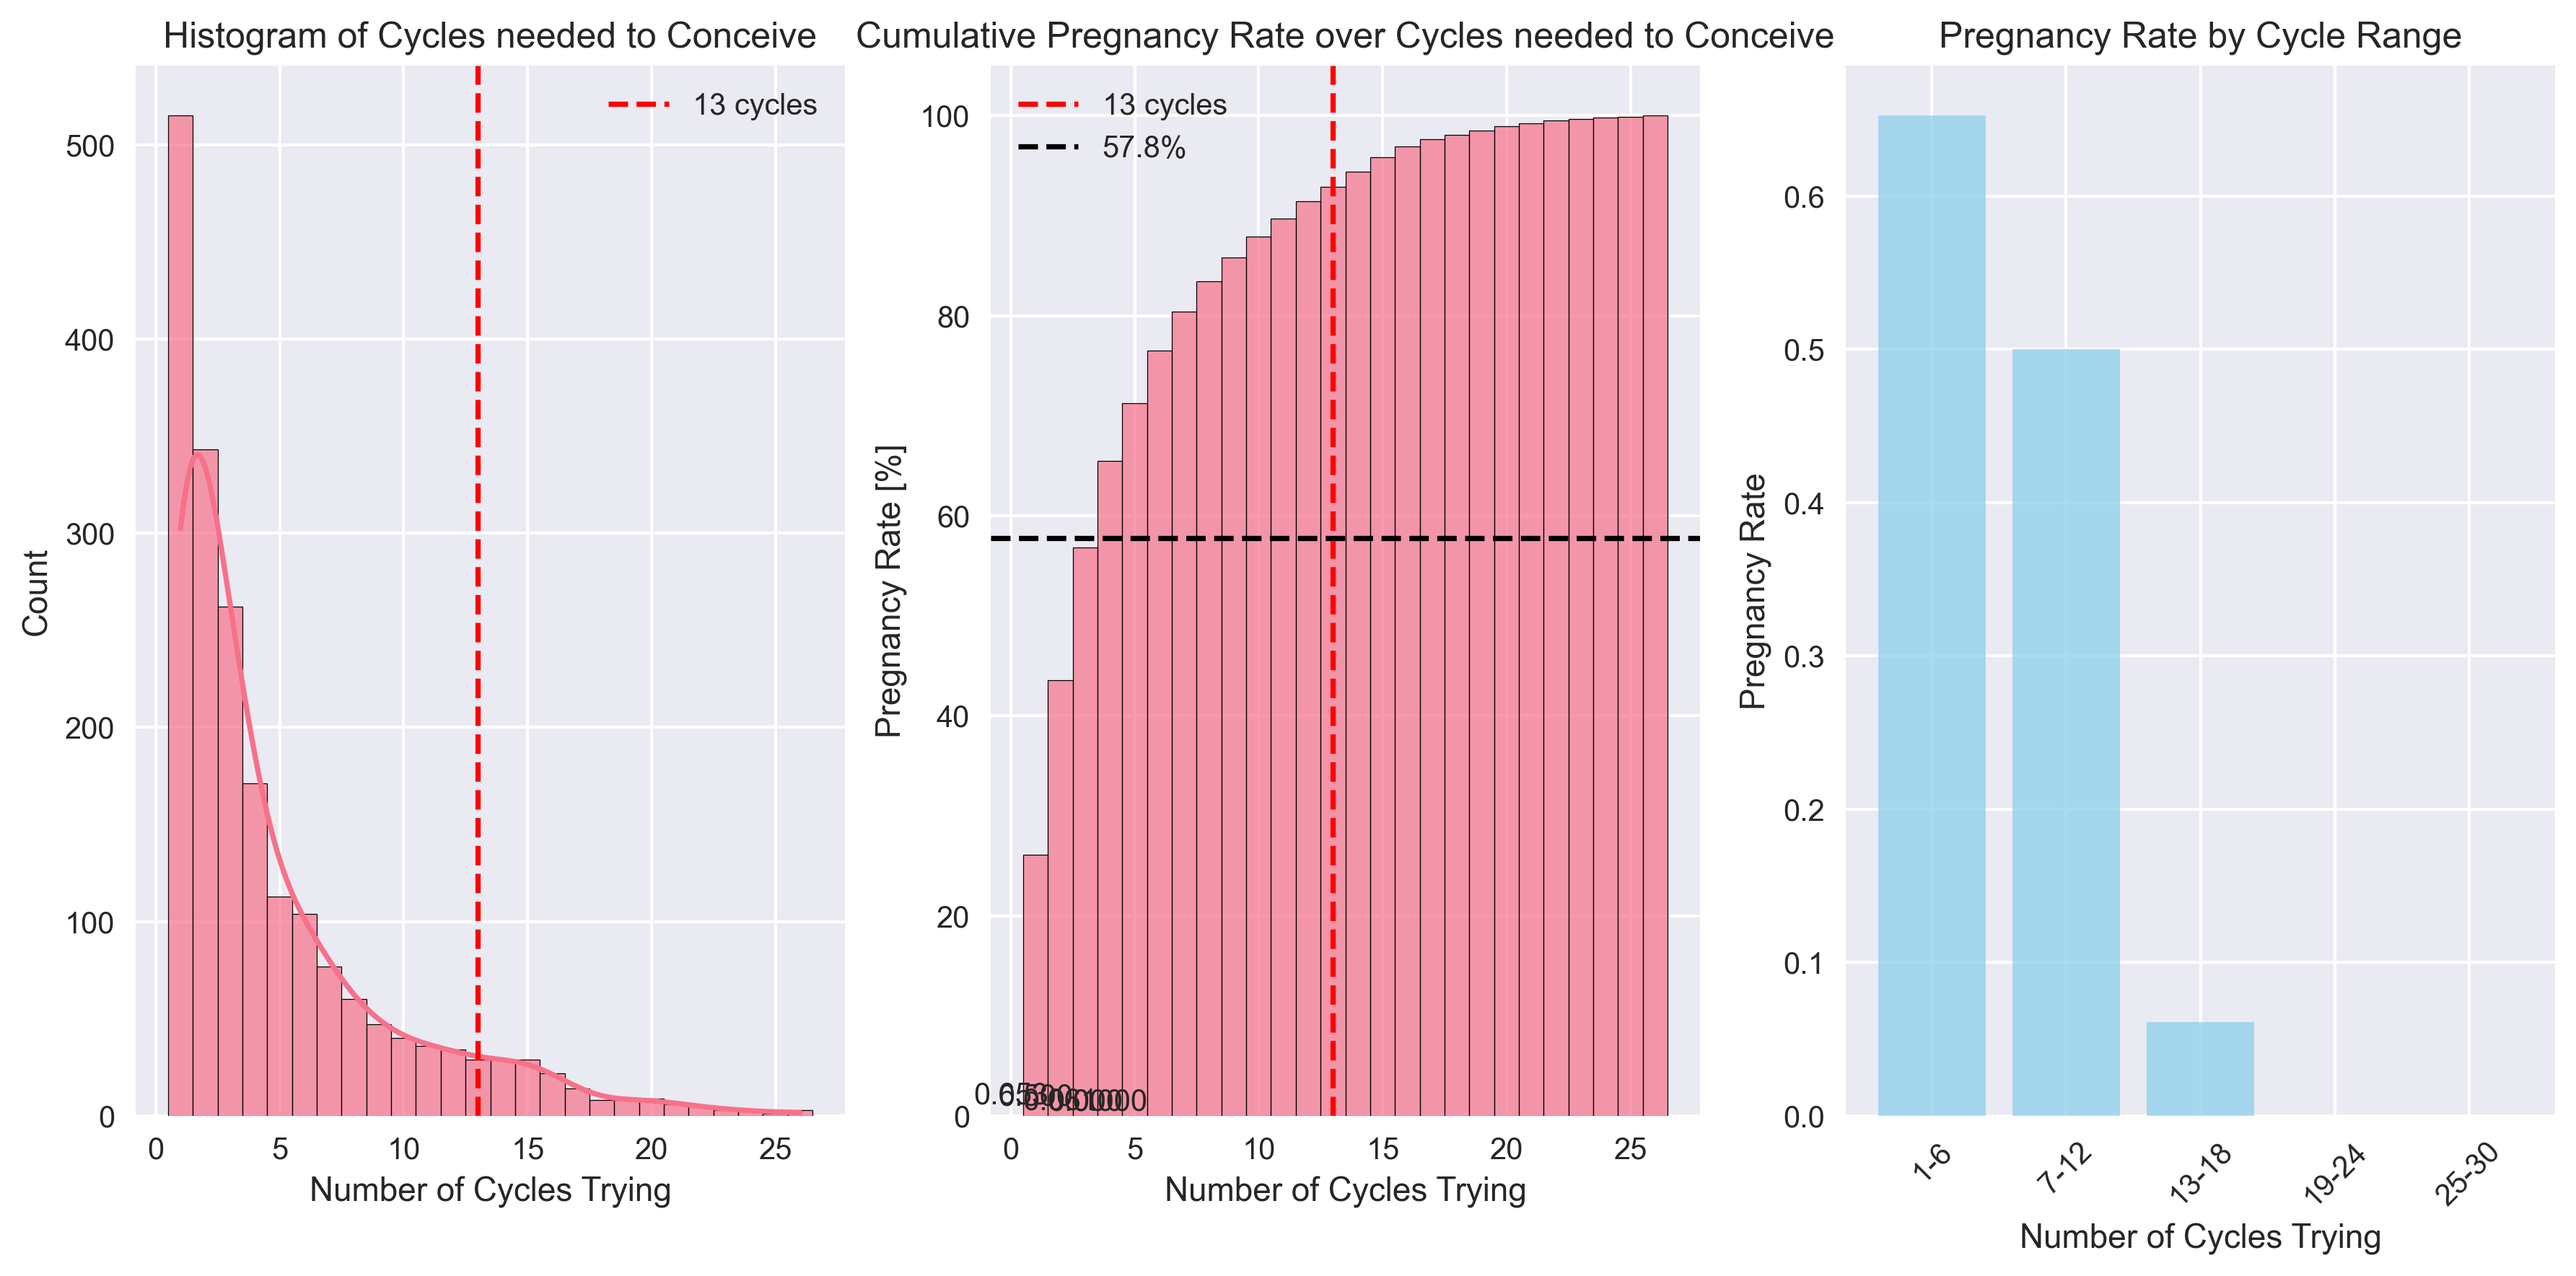
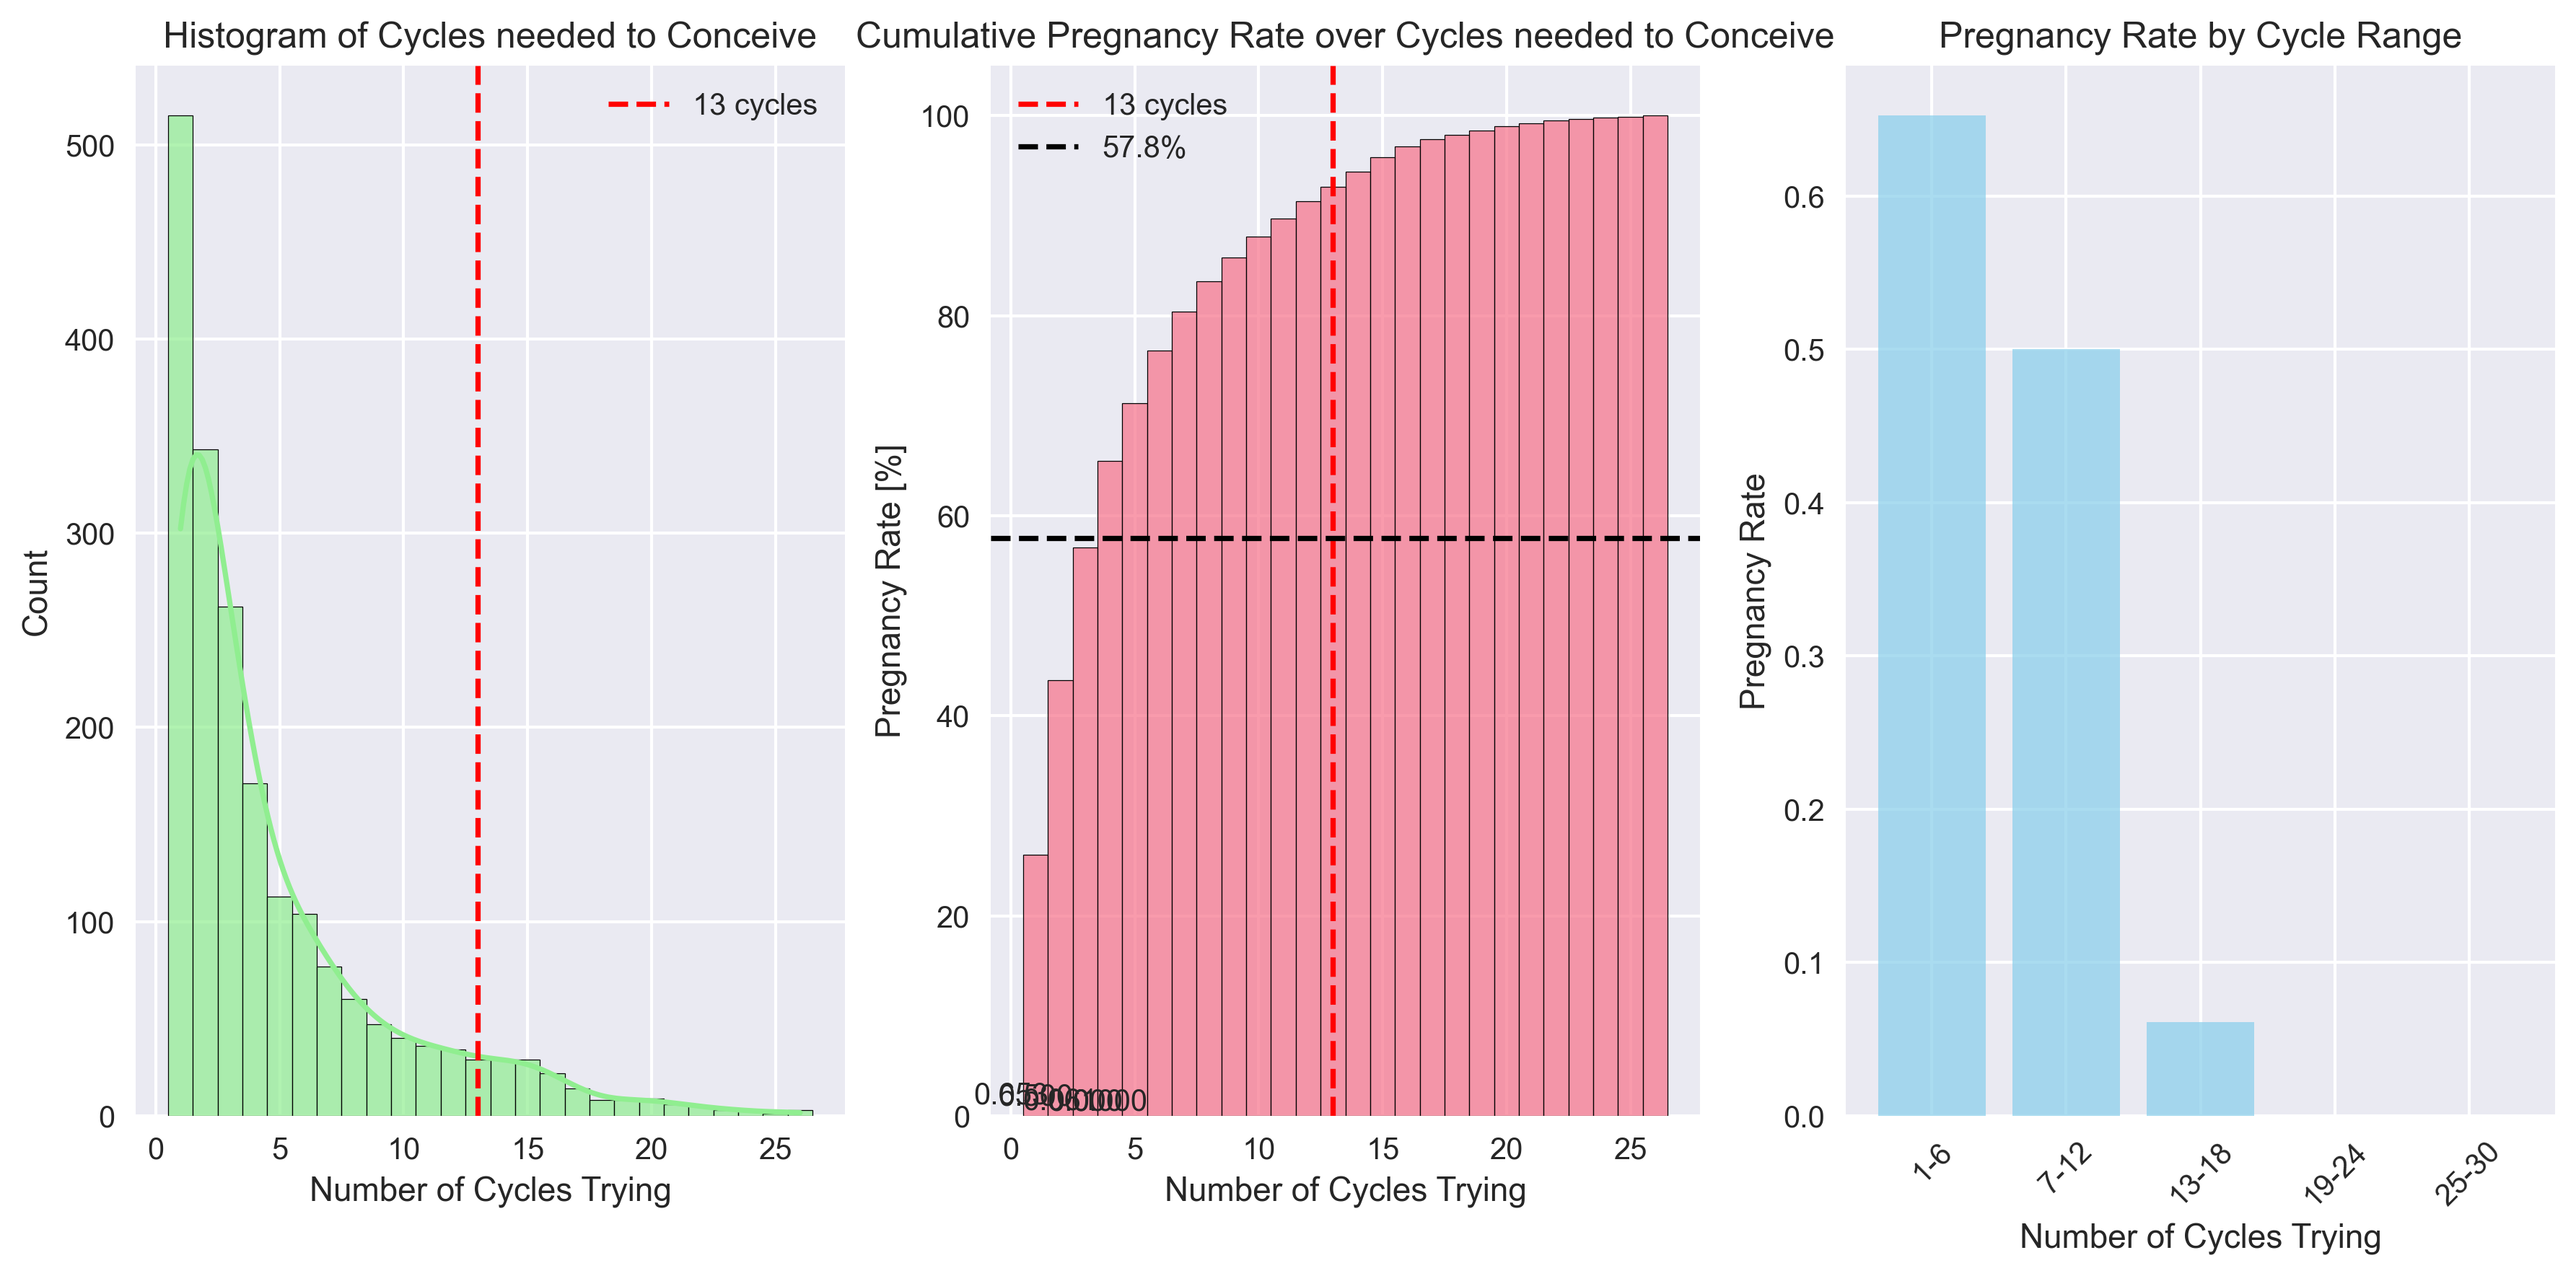
Clean question 1
Note! The cumulative histogram still contains a bug. It should not total to 100%

Changed region(s): [[0.0622, 0.0933, 0.3109, 0.9016]]

diff --git a/natural_cycles_assignment/question_1_pregnancy_chance_13_cycles.py b/natural_cycles_assignment/question_1_pregnancy_chance_13_cycles.py
@@ -9,7 +9,7 @@ plt.style.use("seaborn-v0_8")
 sns.set_palette("husl")
 
 
-def question_1_pregnancy_chance_within_13_cycles(df):
+def calculate_pregnancy_chance_within_13_cycles(df: pd.DataFrame):
     """Answer: What is the chance of getting pregnant within 13 cycles?"""
     print("\n" + "=" * 60)
     print("QUESTION 1: What is the chance of getting pregnant within 13 cycles?")
@@ -39,7 +39,9 @@ def question_1_pregnancy_chance_within_13_cycles(df):
     plt.figure(figsize=(12, 6))
     # Create histogram of cycles trying
     plt.subplot(1, 3, 1)
-    sns.histplot(df, x="n_cycles_trying", alpha=0.7, discrete=True, kde=True)
+    sns.histplot(
+        df, x="n_cycles_trying", alpha=0.7, discrete=True, kde=True, color="lightgreen"
+    )
     plt.axvline(x=13, color="red", linestyle="--", label="13 cycles")
     plt.title("Histogram of Cycles needed to Conceive")
     plt.xlabel("Number of Cycles Trying")
@@ -47,12 +49,24 @@ def question_1_pregnancy_chance_within_13_cycles(df):
     plt.legend()
 
     # Cumulative histogram in percentage
+    # BUG: the cumulative histogram is not correct, it should not total to 100%, because not all women got pregnant!
     plt.subplot(1, 3, 2)
     sns.histplot(
-        df, x="n_cycles_trying", alpha=0.7, discrete=True, cumulative=True, stat='percent', thresh=90
+        df,
+        x="n_cycles_trying",
+        alpha=0.7,
+        discrete=True,
+        cumulative=True,
+        stat="percent",
+        thresh=90,
     )
     plt.axvline(x=13, color="red", linestyle="--", label="13 cycles")
-    plt.axhline(y=overall_pregnancy_rate*100, color="black", linestyle="--", label=f"{overall_pregnancy_rate*100:.1f}%")
+    plt.axhline(
+        y=overall_pregnancy_rate * 100,
+        color="black",
+        linestyle="--",
+        label=f"{overall_pregnancy_rate*100:.1f}%",
+    )
     plt.title("Cumulative Pregnancy Rate over Cycles needed to Conceive")
     plt.xlabel("Number of Cycles Trying")
     plt.ylabel("Pregnancy Rate [%]")
@@ -82,6 +96,7 @@ def question_1_pregnancy_chance_within_13_cycles(df):
     plt.ylabel("Pregnancy Rate")
     plt.xticks(rotation=45)
 
+    # Save figure
     plt.tight_layout()
     plt.savefig(
         "reports/figures/pregnancy_chance_13_cycles.png", dpi=300, bbox_inches="tight"
@@ -101,8 +116,8 @@ def main():
     # Load and clean data
     df = load_and_clean_data(csv_file=csv_file)
 
-    # Answer the three questions
-    rate_13_cycles = question_1_pregnancy_chance_within_13_cycles(df)
+    # Answer question 1
+    rate_13_cycles = calculate_pregnancy_chance_within_13_cycles(df)
 
     # Summary
     print("\n" + "=" * 60)

diff --git a/natural_cycles_assignment/import_data.py b/natural_cycles_assignment/import_data.py
@@ -1,0 +1,37 @@
+import pandas as pd
+import numpy as np
+
+
+def load_and_clean_data(csv_file: str, remove_na: bool = False):
+    """Load and clean the dataset
+    Args:
+        csv_file: str, path to the csv file
+        remove_na: bool, whether to remove rows with missing values (default: False)
+    Returns:
+        df: pd.DataFrame, the cleaned dataset
+    """
+    # Load the data
+    df = pd.read_csv(csv_file, index_col=0)
+    print(f"Original dataset shape: {df.shape}")
+
+    # Clean the data
+    # (Optional) Remove all rows with missing values
+    if remove_na == True:
+        print("Removing all rows with missing values")
+        df = df.dropna()
+
+    # Remove rows with missing outcome or n_cycles_trying
+    df = df.dropna(subset=["outcome", "n_cycles_trying"])
+
+    # Convert outcome to binary (1 for pregnant, 0 for not_pregnant)
+    # This makes later analysis easier
+    df["pregnant"] = (df["outcome"] == "pregnant").astype(int)
+
+    # Clean BMI outliers (remove values that are likely errors)
+    df = df[df["bmi"] > 10]  # Remove very low BMI values that are likely errors
+
+    # Clean age outliers
+    df = df[df["age"] >= 16]  # Remove ages under the consent age (up for discussion)
+
+    print(f"Cleaned dataset shape: {df.shape}")
+    return df
